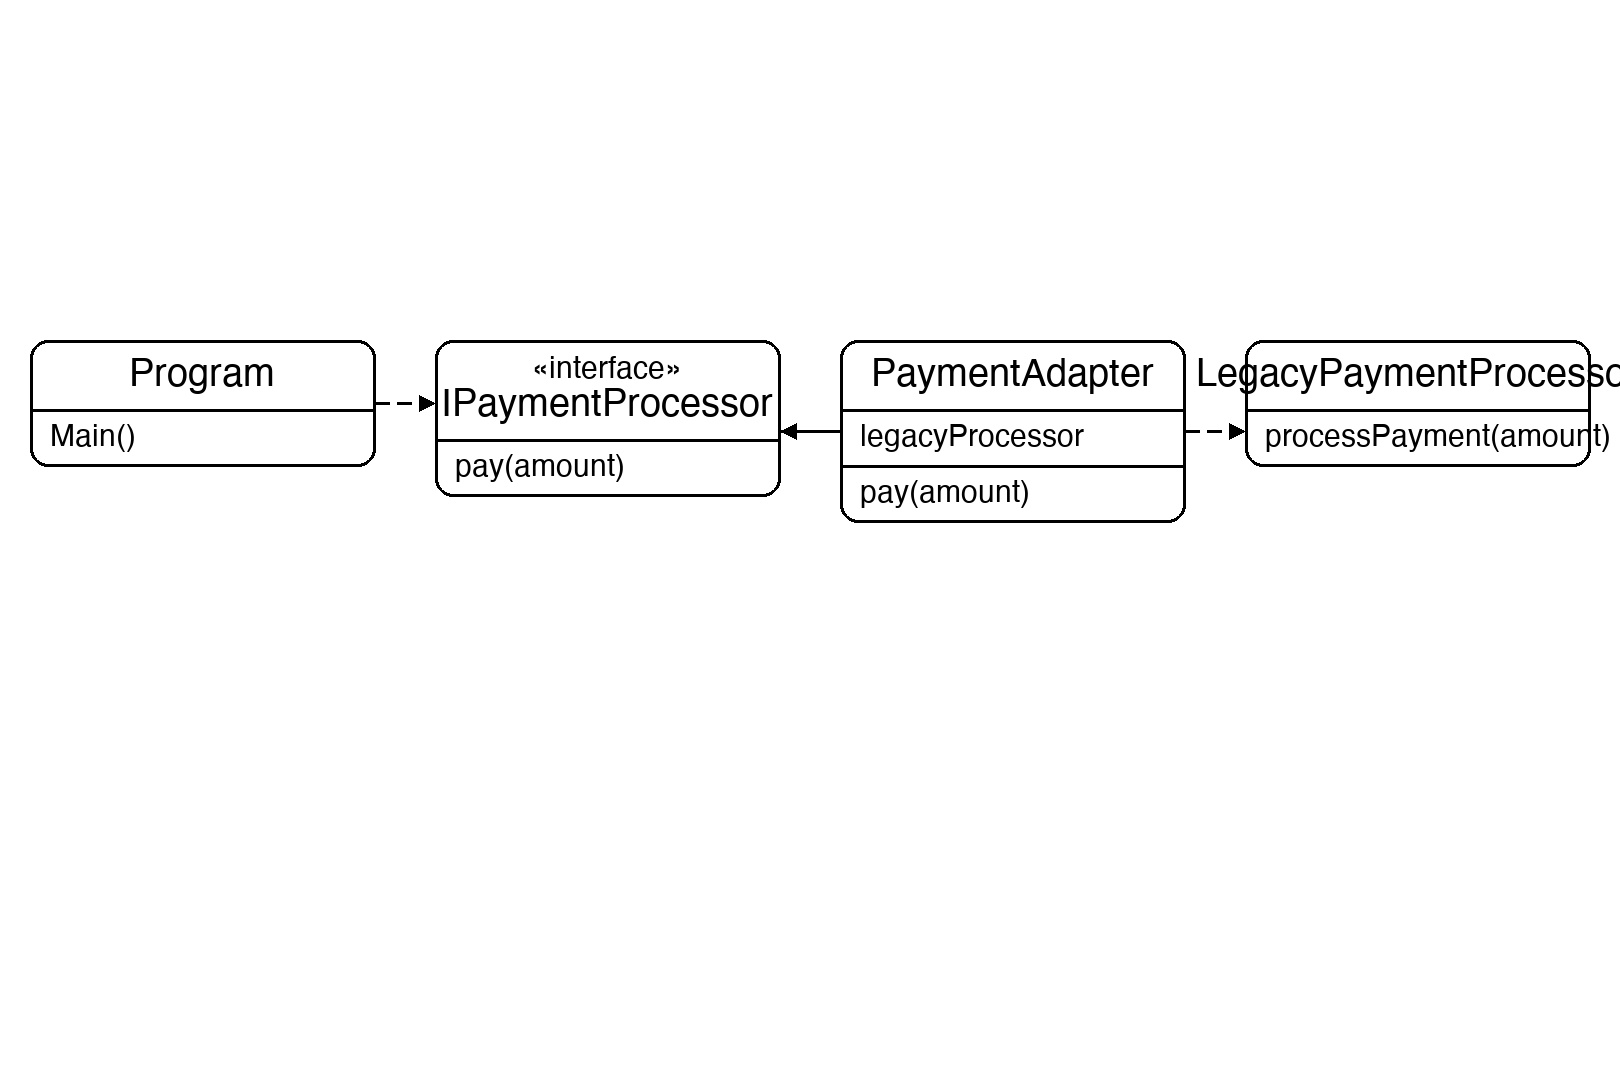
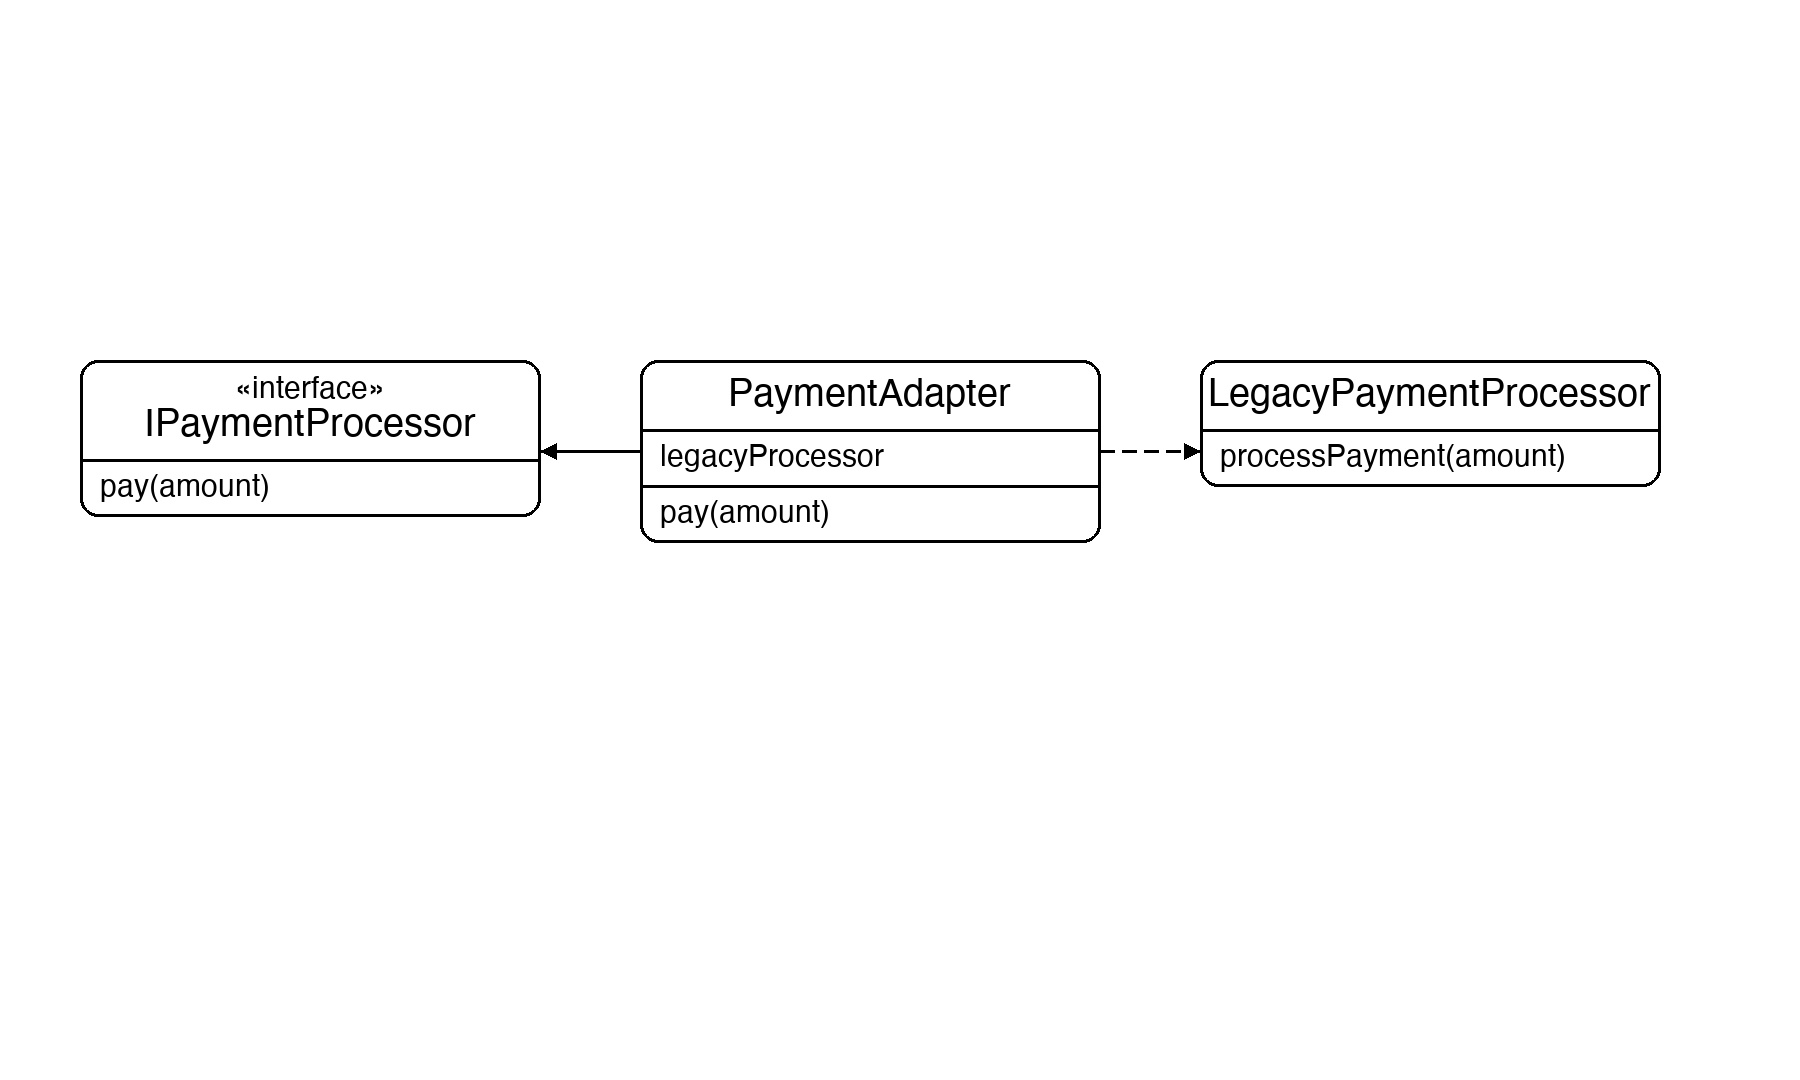
Added Bridge Pattern

Changed region(s): [[0.0309, 0.3056, 1.0, 0.4889]]

diff --git a/StructuralPatterns/BridgePattern/Program.cs b/StructuralPatterns/BridgePattern/Program.cs
@@ -1,0 +1,19 @@
+namespace BridgePattern
+{
+    internal class Program
+    {
+        static void Main(string[] args)
+        {
+            // Any shape can be combined with any renderer independently
+            var vectorCircle  = new Circle(new VectorRenderer());
+            var rasterCircle  = new Circle(new RasterRenderer());
+            var vectorSquare  = new Square(new VectorRenderer());
+            var rasterSquare  = new Square(new RasterRenderer());
+
+            vectorCircle.Draw();
+            rasterCircle.Draw();
+            vectorSquare.Draw();
+            rasterSquare.Draw();
+        }
+    }
+}

diff --git a/StructuralPatterns/BridgePattern/Shape.cs b/StructuralPatterns/BridgePattern/Shape.cs
@@ -1,0 +1,18 @@
+namespace BridgePattern
+{
+    // Abstraction — holds the bridge to the implementation
+    public abstract class Shape
+    {
+        // The renderer is injected — shapes and renderers vary independently
+        protected IRenderer _renderer;
+
+        // Constructor receives any renderer implementation
+        protected Shape(IRenderer renderer)
+        {
+            _renderer = renderer;
+        }
+
+        // Each shape subclass defines how it draws itself
+        public abstract void Draw();
+    }
+}

diff --git a/StructuralPatterns/BridgePattern/Circle.cs b/StructuralPatterns/BridgePattern/Circle.cs
@@ -1,0 +1,14 @@
+namespace BridgePattern
+{
+    // Refined abstraction — a circle that delegates rendering to its renderer
+    public class Circle : Shape
+    {
+        public Circle(IRenderer renderer) : base(renderer) { }
+
+        // Delegates to the renderer — shape logic and render logic stay separate
+        public override void Draw()
+        {
+            _renderer.Render("Circle");
+        }
+    }
+}

diff --git a/StructuralPatterns/BridgePattern/Square.cs b/StructuralPatterns/BridgePattern/Square.cs
@@ -1,0 +1,13 @@
+namespace BridgePattern
+{
+    // Refined abstraction — a square that delegates rendering to its renderer
+    public class Square : Shape
+    {
+        public Square(IRenderer renderer) : base(renderer) { }
+
+        public override void Draw()
+        {
+            _renderer.Render("Square");
+        }
+    }
+}

diff --git a/StructuralPatterns/BridgePattern/RasterRenderer.cs b/StructuralPatterns/BridgePattern/RasterRenderer.cs
@@ -1,0 +1,11 @@
+namespace BridgePattern
+{
+    // Concrete implementation — renders shapes as raster (pixel) graphics
+    public class RasterRenderer : IRenderer
+    {
+        public void Render(string shapeName)
+        {
+            Console.WriteLine($"Drawing {shapeName} as raster pixels");
+        }
+    }
+}

diff --git a/StructuralPatterns/BridgePattern/VectorRenderer.cs b/StructuralPatterns/BridgePattern/VectorRenderer.cs
@@ -1,0 +1,11 @@
+namespace BridgePattern
+{
+    // Concrete implementation — renders shapes as vector graphics
+    public class VectorRenderer : IRenderer
+    {
+        public void Render(string shapeName)
+        {
+            Console.WriteLine($"Drawing {shapeName} as vector graphics");
+        }
+    }
+}

diff --git a/StructuralPatterns/BridgePattern/IRenderer.cs b/StructuralPatterns/BridgePattern/IRenderer.cs
@@ -1,0 +1,9 @@
+namespace BridgePattern
+{
+    // Implementation interface — the bridge between shapes and renderers
+    public interface IRenderer
+    {
+        // Render the given shape name using this renderer's technique
+        void Render(string shapeName);
+    }
+}

diff --git a/StructuralPatterns/BridgePattern/README.md b/StructuralPatterns/BridgePattern/README.md
@@ -1,0 +1,38 @@
+# Documentation of the Code
+
+## Bridge Pattern
+
+The Bridge pattern is a structural design pattern that splits a large class (or set of closely related classes) into two separate hierarchies — **abstraction** and **implementation** — which can be developed and extended independently.
+
+Without Bridge, combining N shapes with M renderers would require N×M subclasses. With Bridge, you have N shape classes and M renderer classes — N+M total — and any combination is possible at runtime.
+
+The bridge is the reference the abstraction holds to the implementation. Changing the implementation (renderer) does not require changing the abstraction (shape) and vice versa.
+
+This pattern is useful whenever you want to avoid a permanent binding between an abstraction and its implementation, or whenever both dimensions need to be extensible independently.
+
+![Bridge Pattern Diagram](bridge_pattern_diagram.jpg)
+
+## Classes in the Code:
+
+### Interface IRenderer
+The **Implementation** interface. Declares `Render(shapeName)` — the single method all renderers must provide.
+
+### Class VectorRenderer
+A **Concrete Implementation** that renders shapes as vector graphics.
+
+### Class RasterRenderer
+A **Concrete Implementation** that renders shapes as raster pixels.
+
+### Abstract Class Shape
+The **Abstraction**. Holds a protected `_renderer` reference (the bridge) injected via constructor. Declares abstract `Draw()` which subclasses implement.
+
+### Class Circle
+A **Refined Abstraction**. Implements `Draw()` by calling `_renderer.Render("Circle")`.
+
+### Class Square
+A **Refined Abstraction**. Implements `Draw()` by calling `_renderer.Render("Square")`.
+
+### Class Program
+The entry point. It creates all four shape+renderer combinations (Circle/Square × Vector/Raster) and calls `Draw()` on each, showing that shapes and renderers vary independently with no new subclasses needed.
+
+![Class Diagram](class_diagram.jpg)
